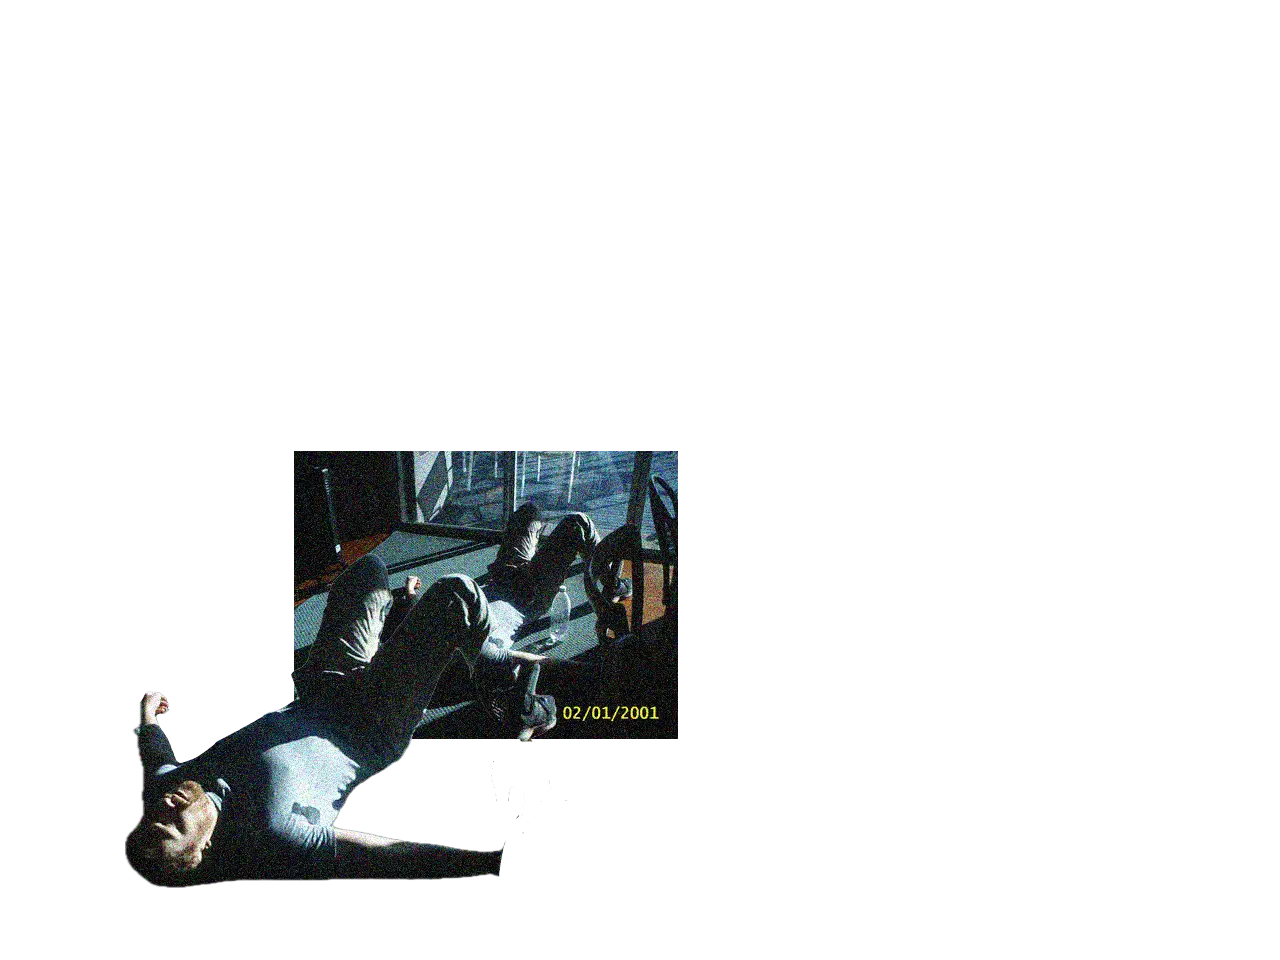
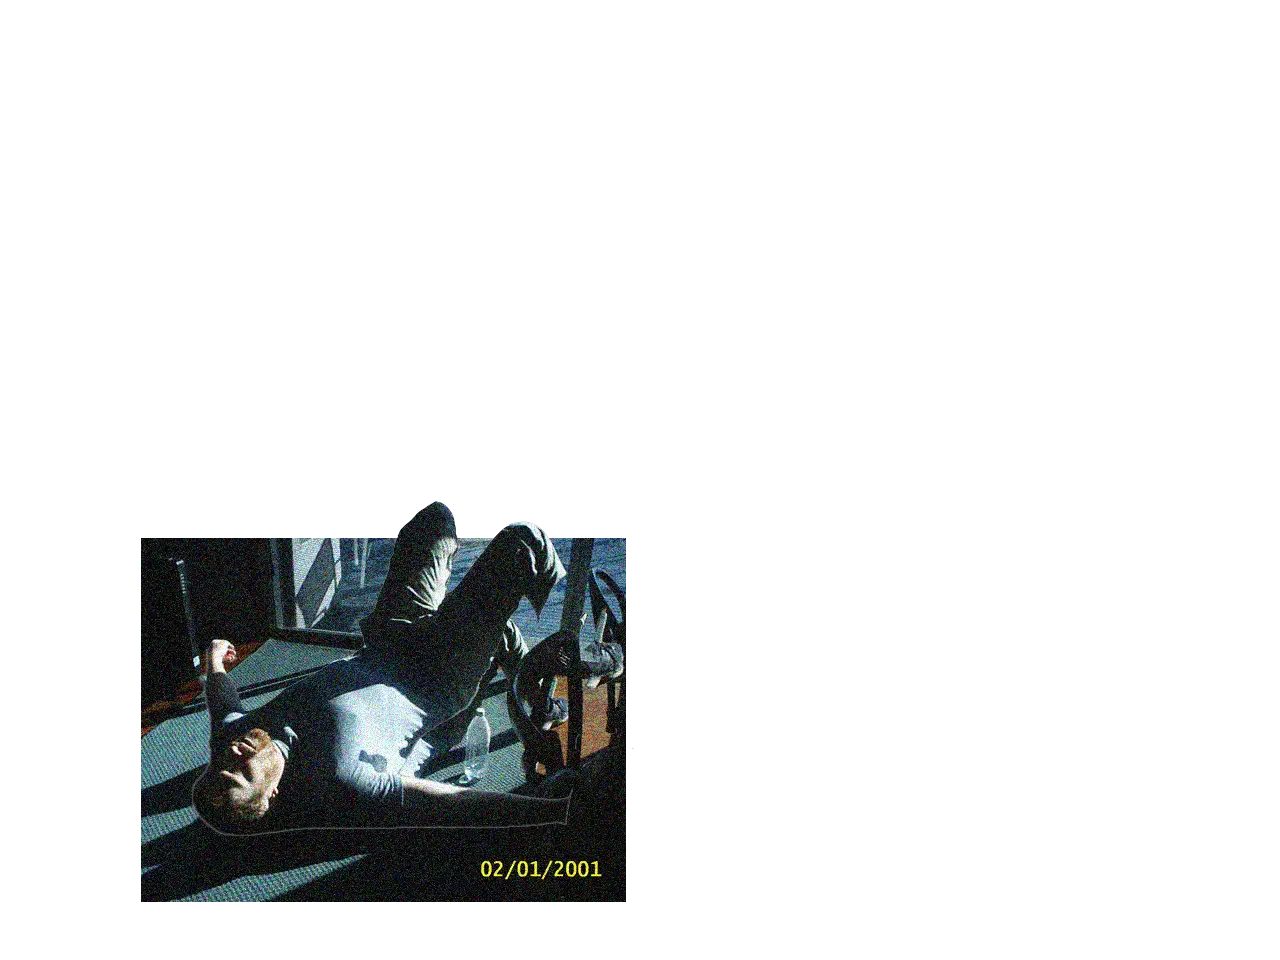
fix: full photo big, cutout ghost offset slightly above-right

Changed region(s): [[0.0938, 0.4688, 0.5312, 0.9375]]

diff --git a/lib/album-data.ts b/lib/album-data.ts
@@ -421,10 +421,10 @@ export const ALBUM_DATA: AlbumSequence = {
         {
           imageUrl: "/images/collage/person.webp",
           points: [
-            { x: 9, y: 46 },
-            { x: 54, y: 46 },
-            { x: 54, y: 93 },
-            { x: 9, y: 93 },
+            { x: 10, y: 51 },
+            { x: 52, y: 51 },
+            { x: 52, y: 95 },
+            { x: 10, y: 95 },
           ],
         },
       ],
